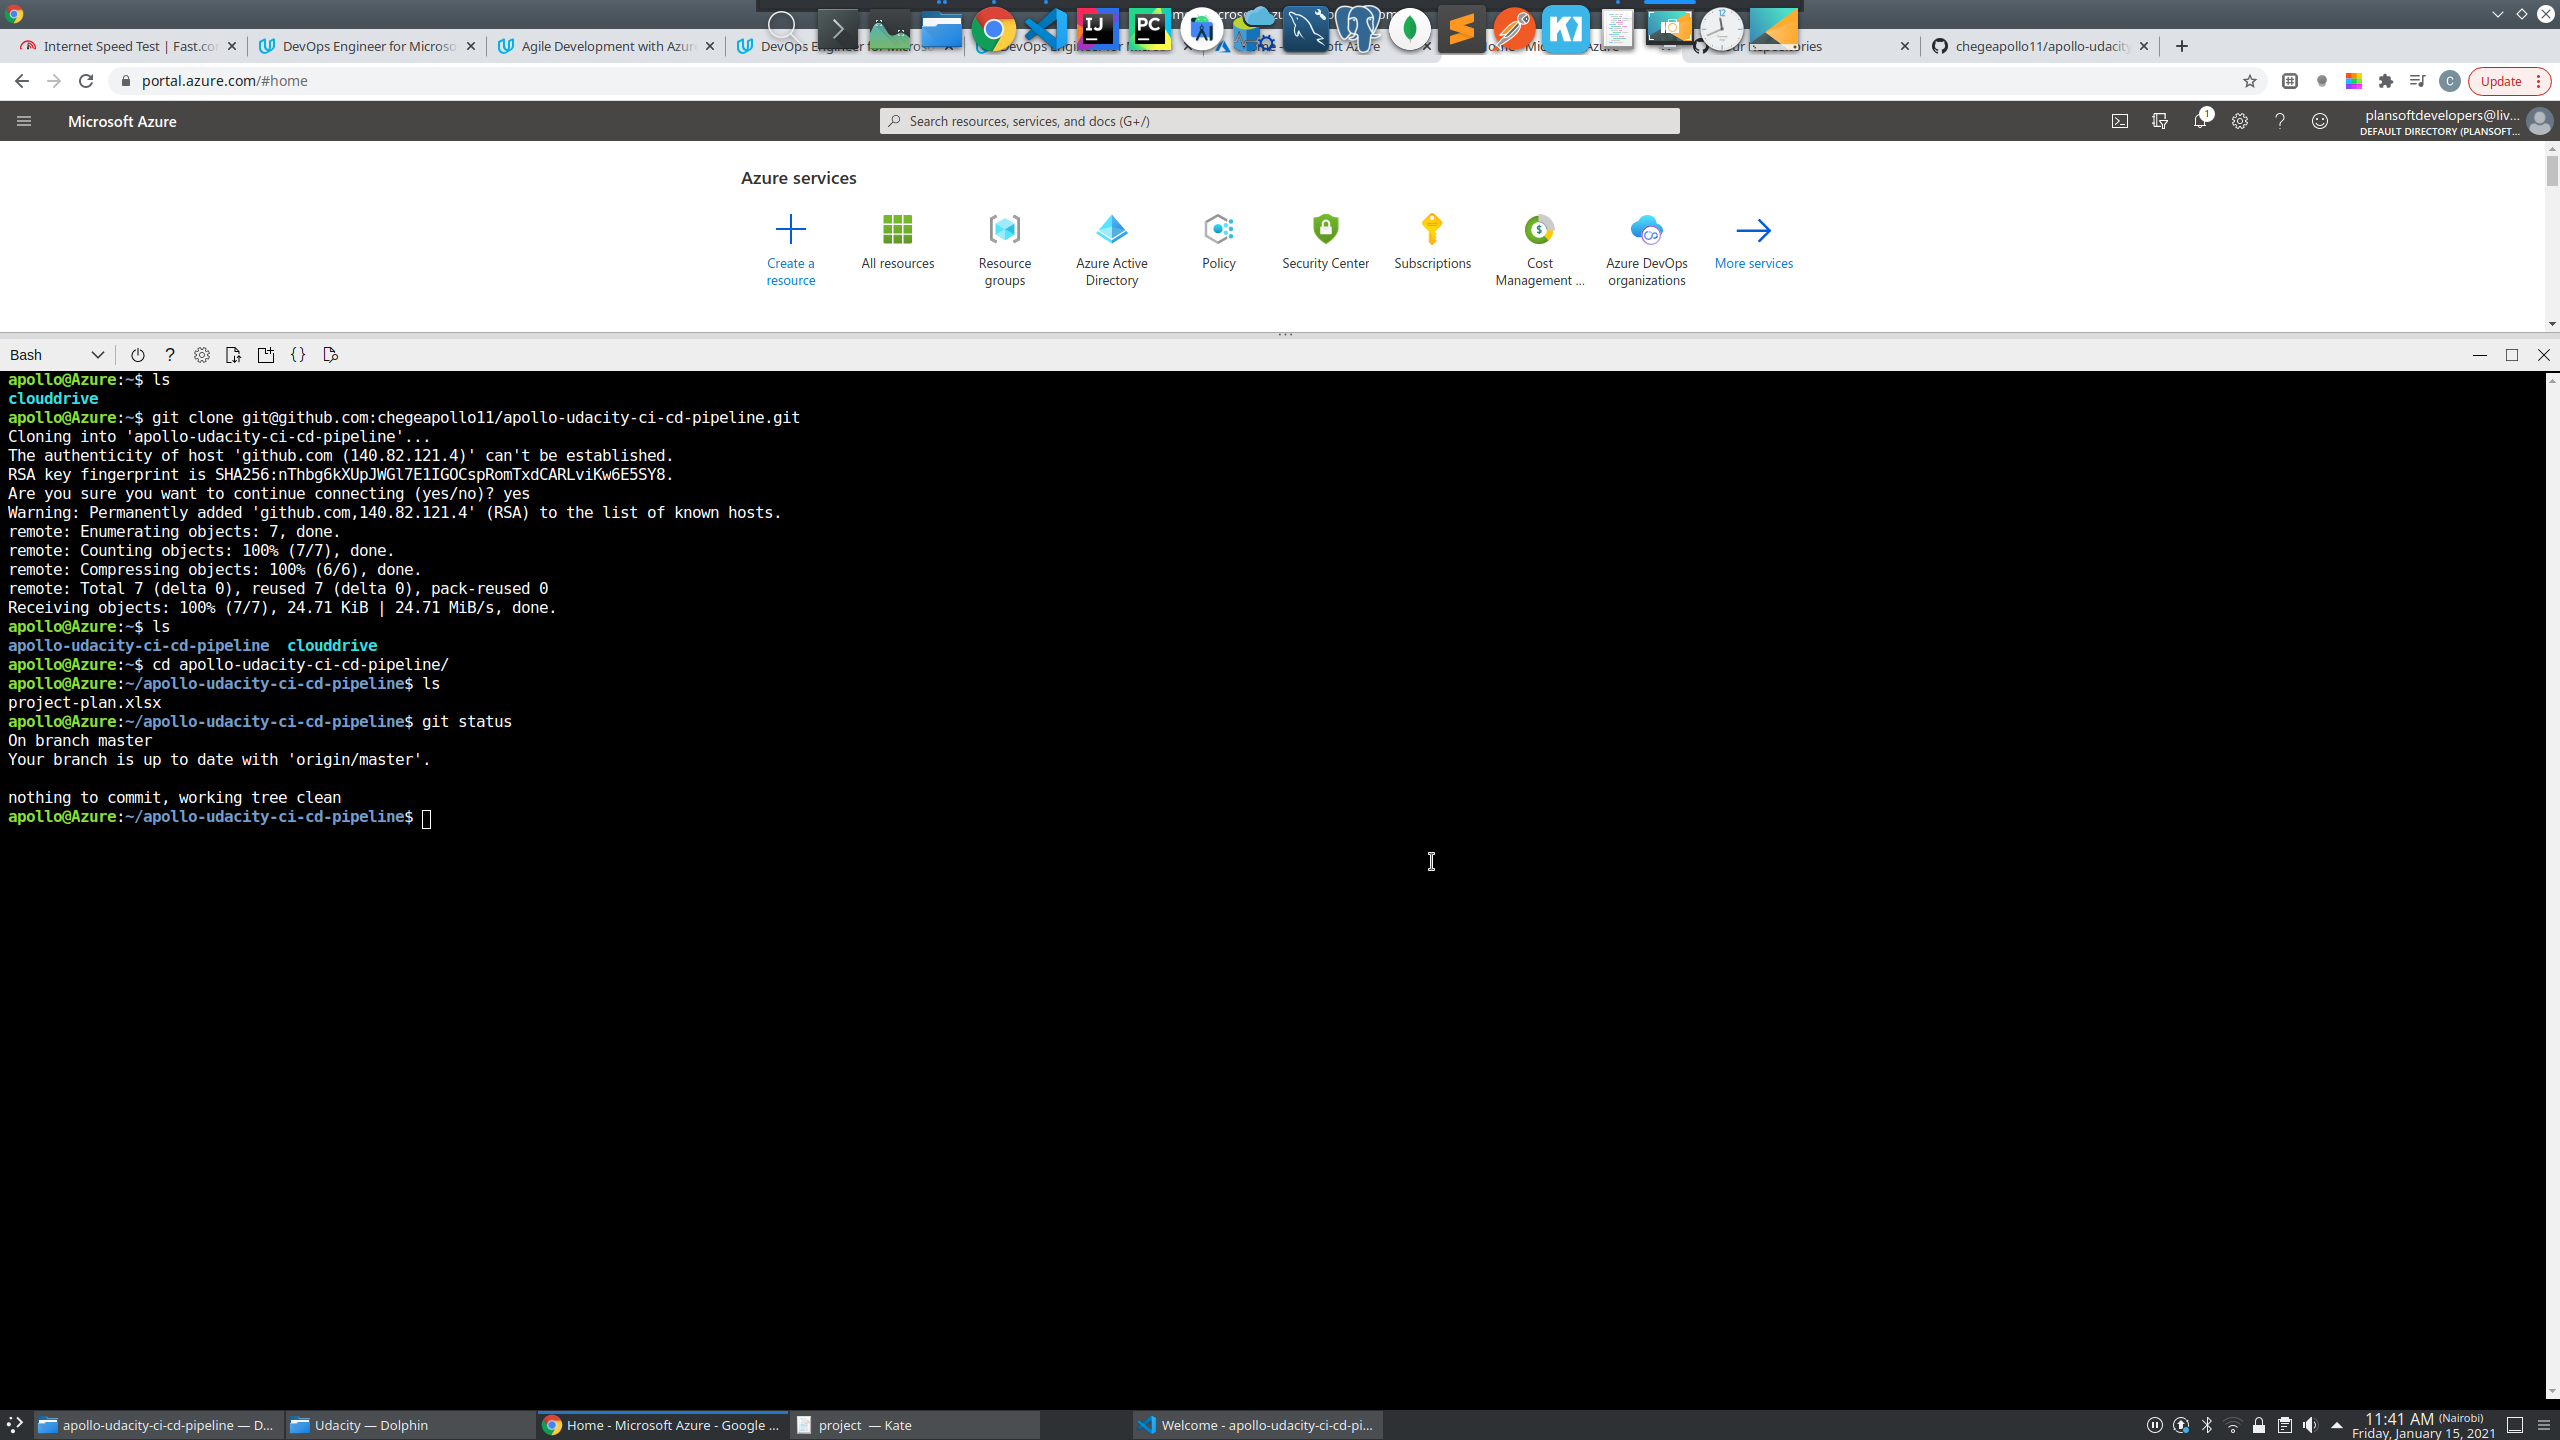
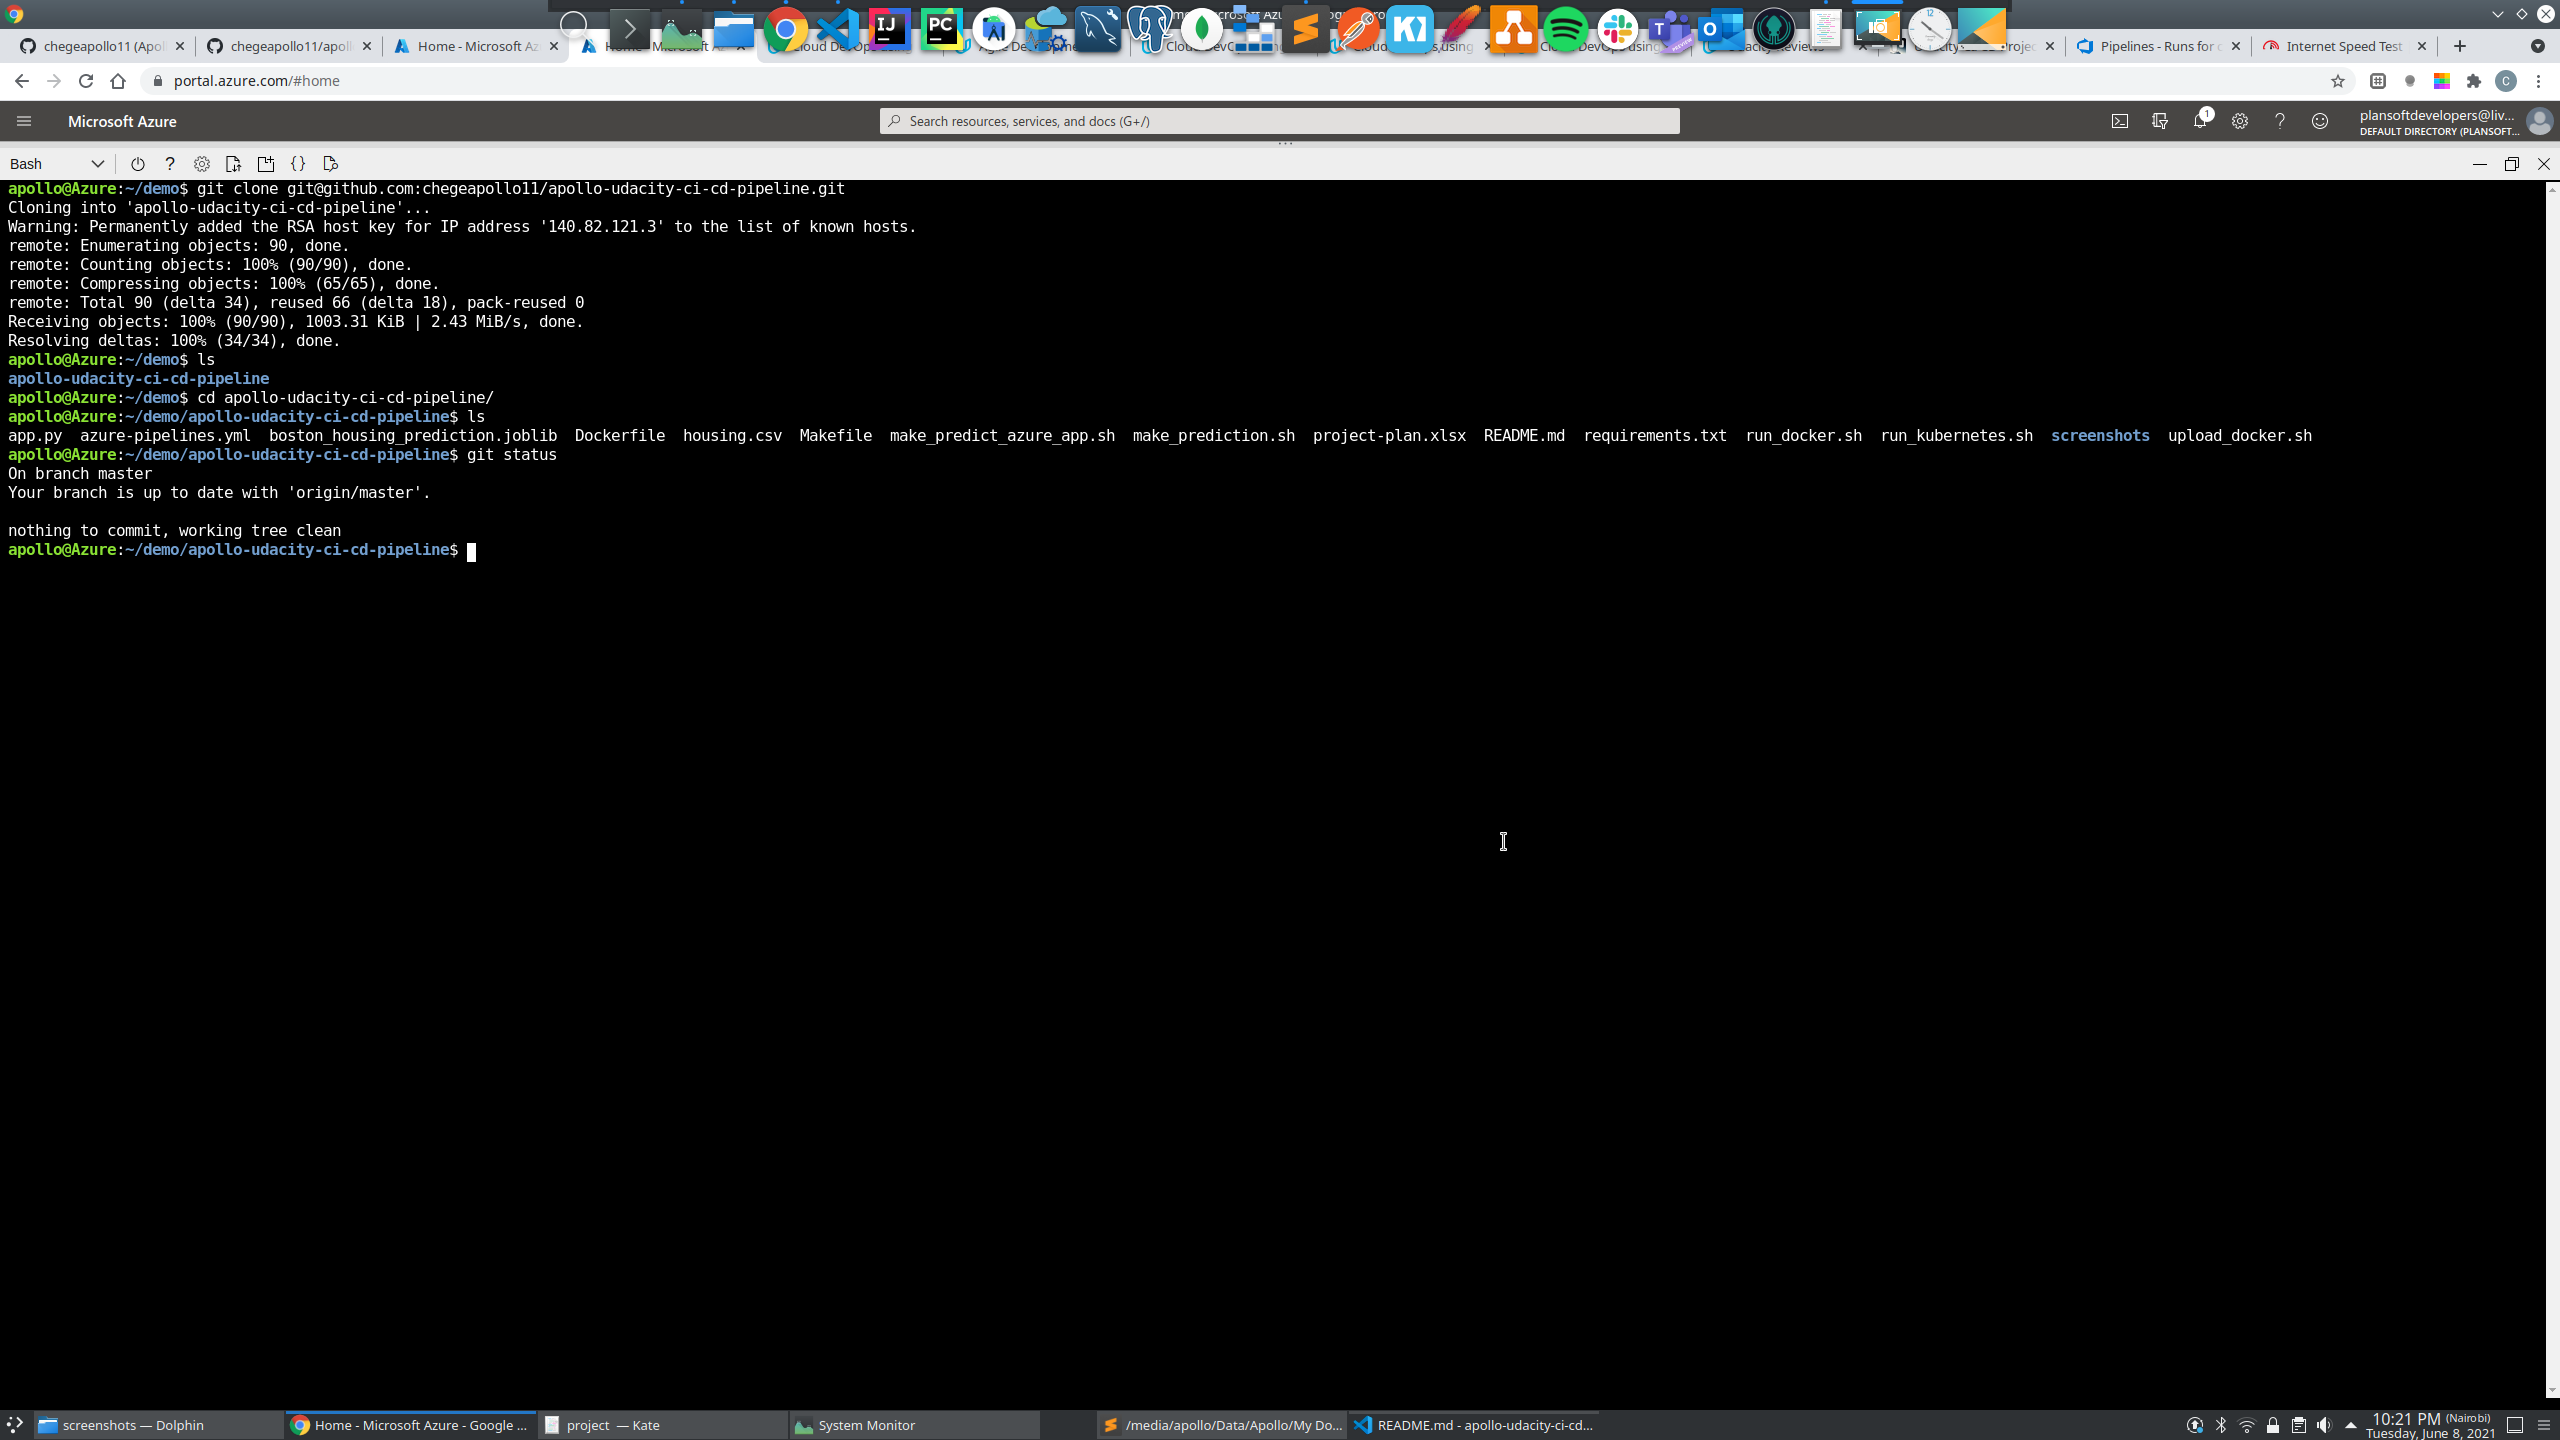
Add required screenshots, tests and complete documentation

diff --git a/tests/test_app.py b/tests/test_app.py
@@ -1,0 +1,30 @@
+import json
+
+from app import app
+
+def test_predict():
+    test_client = app.test_client()
+
+    payload = json.dumps({  
+        "CHAS":{  
+            "0":0
+        },
+        "RM":{  
+            "0":6.575
+        },
+        "TAX":{  
+            "0":296.0
+        },
+        "PTRATIO":{  
+            "0":15.3
+        },
+        "B":{  
+            "0":396.9
+        },
+        "LSTAT":{  
+            "0":4.98
+        }
+    })
+
+    response = test_client.post("/predict", headers = { "Content-Type": "application/json" }, data = payload)
+    assert response.status_code == 200

diff --git a/README.md b/README.md
@@ -1,48 +1,59 @@
+![Python application test with Github Actions](https://github.com/chegeapollo11/apollo-udacity-ci-cd-pipeline/actions/workflows/main.yml/badge.svg)
+
+
 # Overview
 
-<TODO: complete this with an overview of your project>
+This is a python flask based machining learning application that demostrates DevOps based practices. For this project, a spreadsheet and a trello board have been used to define the project plan and track progress respectively. The project also implements Continuous Integration via Github Actions while Continuous Delivery is achieved using Azure DevOps Pipelines. Finally, the project is fully documented with instuctions on how to run the application in the README file.
 
 ## Project Plan
-<TODO: Project Plan
 
-* A link to a Trello board for the project
-* A link to a spreadsheet that includes the original and final project plan>
+* [Trello Board](https://trello.com/b/oKu23n7d/udacity-ci-cd-project)
+* [Project Plan Spreadsheet](project-plan.xlsx)
 
 ## Instructions
 
-<TODO:  
-* Architectural Diagram (Shows how key parts of the system work)>
+### Architecture Diagram
+![Architecture Diagram](ArchitectureDiagram.png?raw=true "Architecture Diagram")
 
-<TODO:  Instructions for running the Python project.  How could a user with no context run this project without asking you for any help.  Include screenshots with explicit steps to create that work. Be sure to at least include the following screenshots:
+### Running The Project:
+Follow the steps below to get started and run the project:
 
-* Project running on Azure App Service
+1.  Connect to **Azure Cloud Shell** from **Azure Portal**.
 
-* Project cloned into Azure Cloud Shell
-
-* Passing tests that are displayed after running the `make all` command from the `Makefile`
-
-* Output of a test run
-
-* Successful deploy of the project in Azure Pipelines.  [Note the official documentation should be referred to and double checked as you setup CI/CD](https://docs.microsoft.com/en-us/azure/devops/pipelines/ecosystems/python-webapp?view=azure-devops).
-
-* Running Azure App Service from Azure Pipelines automatic deployment
-
-* Successful prediction from deployed flask app in Azure Cloud Shell.  [Use this file as a template for the deployed prediction](https://github.com/udacity/nd082-Azure-Cloud-DevOps-Starter-Code/blob/master/C2-AgileDevelopmentwithAzure/project/starter_files/flask-sklearn/make_predict_azure_app.sh).
-The output should look similar to this:
-
-```bash
-udacity@Azure:~$ ./make_predict_azure_app.sh
-Port: 443
-{"prediction":[20.35373177134412]}
-```
-
-* Output of streamed log files from deployed application
-
-> 
+2.  Clone the project in **Azure Cloud Shell** using this command as illustrated below: `git clone git@github.com:chegeapollo11/apollo-udacity-ci-cd-pipeline.git`
+![Azure Cloud Shell Cloned Repository](screenshots/1.%20azure-cloud-shell-cloned-repo.png?raw=true "Azure Cloud Shell Cloned Repository")
+3.  Navigate to the newly cloned project using this command: `cd apollo-udacity-ci-cd-pipeline`
+4.  Create a local working branch from **Azure Cloud Shell** using this command: `git checkout -b feature/project-demo`
+5.  Publish the local working branch to **Github** using this command: `git push -u origin feature/project-demo`
+6.  Next, create a python virtual environment from **Azure Cloud Shell** using this command: `python -m venv venv`
+7.  Activate the python virtual environment using this command: `source venv/bin/activate`
+8.  Make required changes to the project then run tests locally using the following command: `make all`
+9.  Observe the following output from **Azure Cloud Shell** if the command runs successfully:
+![Azure Cloud Shell Make All](screenshots/2.2.%20azure-cloud-shell-make-all-ml-app.png?raw=true "Azure Cloud Shell Make All")
+10. Commit and push your changes to **Github** using the following command: `git add . && git commit -m "Test continuous integration" && git push`
+11. Observe that the **Github Actions CI Job** is triggered and executes successfully as illustrated below:
+![Github Actions Continuous Integration](screenshots/3.%20github-actions-continuous-integration.png?raw=true "Github Actions Continuous Integration")
+12. From **Github**, create a pull request for your working branch with the ***master*** branch as the target branch.
+13. Merge and complete the pull request to automatically trigger the **Azure DevOps CD Job**.
+14. Nagivate to https://dev.azure.com/{organization}/{project} and confirm a successful run of the **Azure DevOps CD Job** from the pipeline execution logs as illustrated below:
+![Azure DevOps Continuous Delivery](screenshots/4.%20azure-devops-pipelines-continuous-delivery.png?raw=true "Azure DevOps Continuous Delivery")
+15. Navigate to **Azure Portal** and confirm from the **Azure App Service Deployment Center** that the application was deployed successfully as illustrated below:
+![Azure App Service Deployment](screenshots/5.1.%20azure-app-service-deployment.png?raw=true "Azure App Service Deployment")
+16. Navigate to the [App Url](https://{app-url}.azurewebsites.net/) and confirm that the application is up and running after deployment as illustrated below:
+![Azure App Service Running Application](screenshots/5.2.%20azure-app-service-running-application.png?raw=true "Azure App Service Running Application")
+17. From **Azure Cloud Shell**, grant execute permissions to the prediction script by running the following command: `chmod +x make_predict_azure_app.sh`
+18. From **Azure Cloud Shell**, verify a prediction from the deployed application in azure by running the following command: `./make_predict_azure_app.sh`
+19. Observe the following output from a successful prediction as illustrated below:
+![Azure Cloud Shell Make Prediction](screenshots/2.3.%20azure-cloud-shell-make-prediction.png?raw=true "Azure Cloud Shell Make Prediction")
 
 ## Enhancements
 
-<TODO: A short description of how to improve the project in the future>
+This project implements DevOps best practices on Azure and so far is a great start but can do with the following improvements:
+- Add unit tests for the ***scale*** and ***predict*** methods and ensure the tests run during continuous integration via **Github Actions**.
+- Use a single platform for source code management, continuous integration and continuous delivery i.e. either **Github Actions** or **Azure DevOps Pipelines** to simplify maintenance.
+- Enable health checks in **Azure App Service** that minitor the health of the application.
+- Add monitoring in Azure on the availability of the application and configure alerts that send email notifications when the application is unavailable.
+- Add a front end application with that a user interface that users can interact with to make predictions instead of doing it from the terminal.
 
 ## Demo 
 
